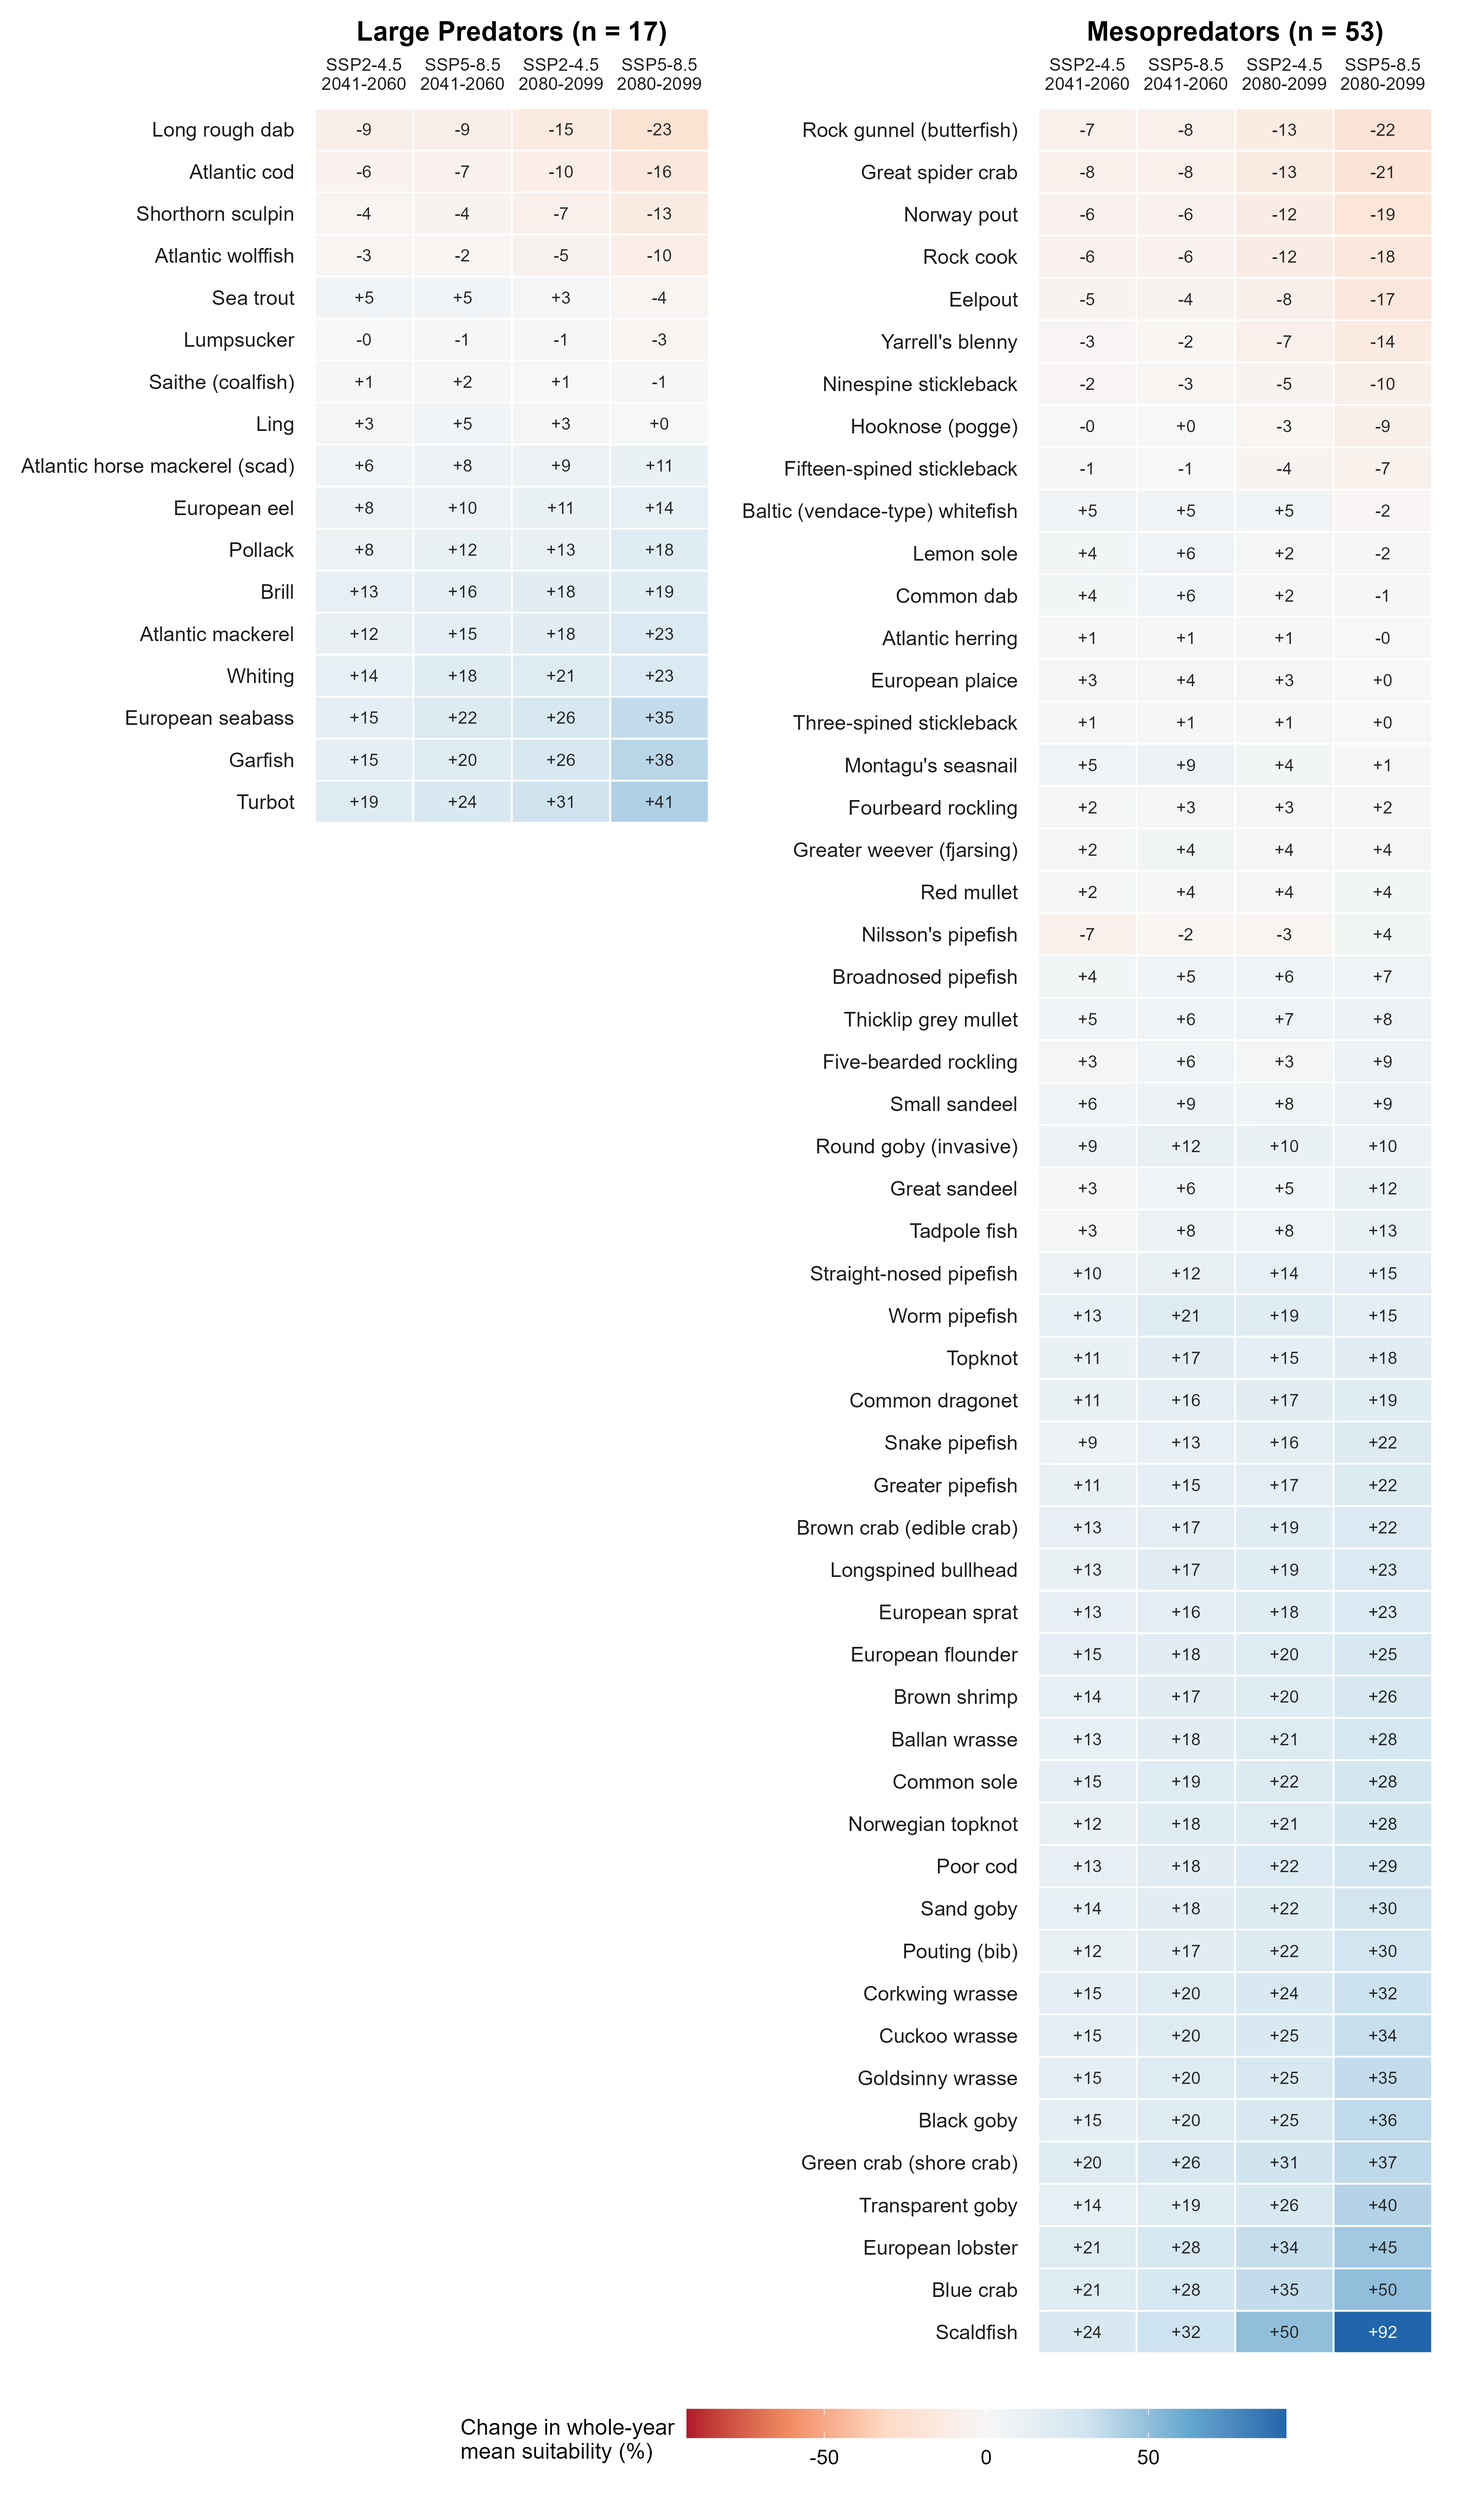
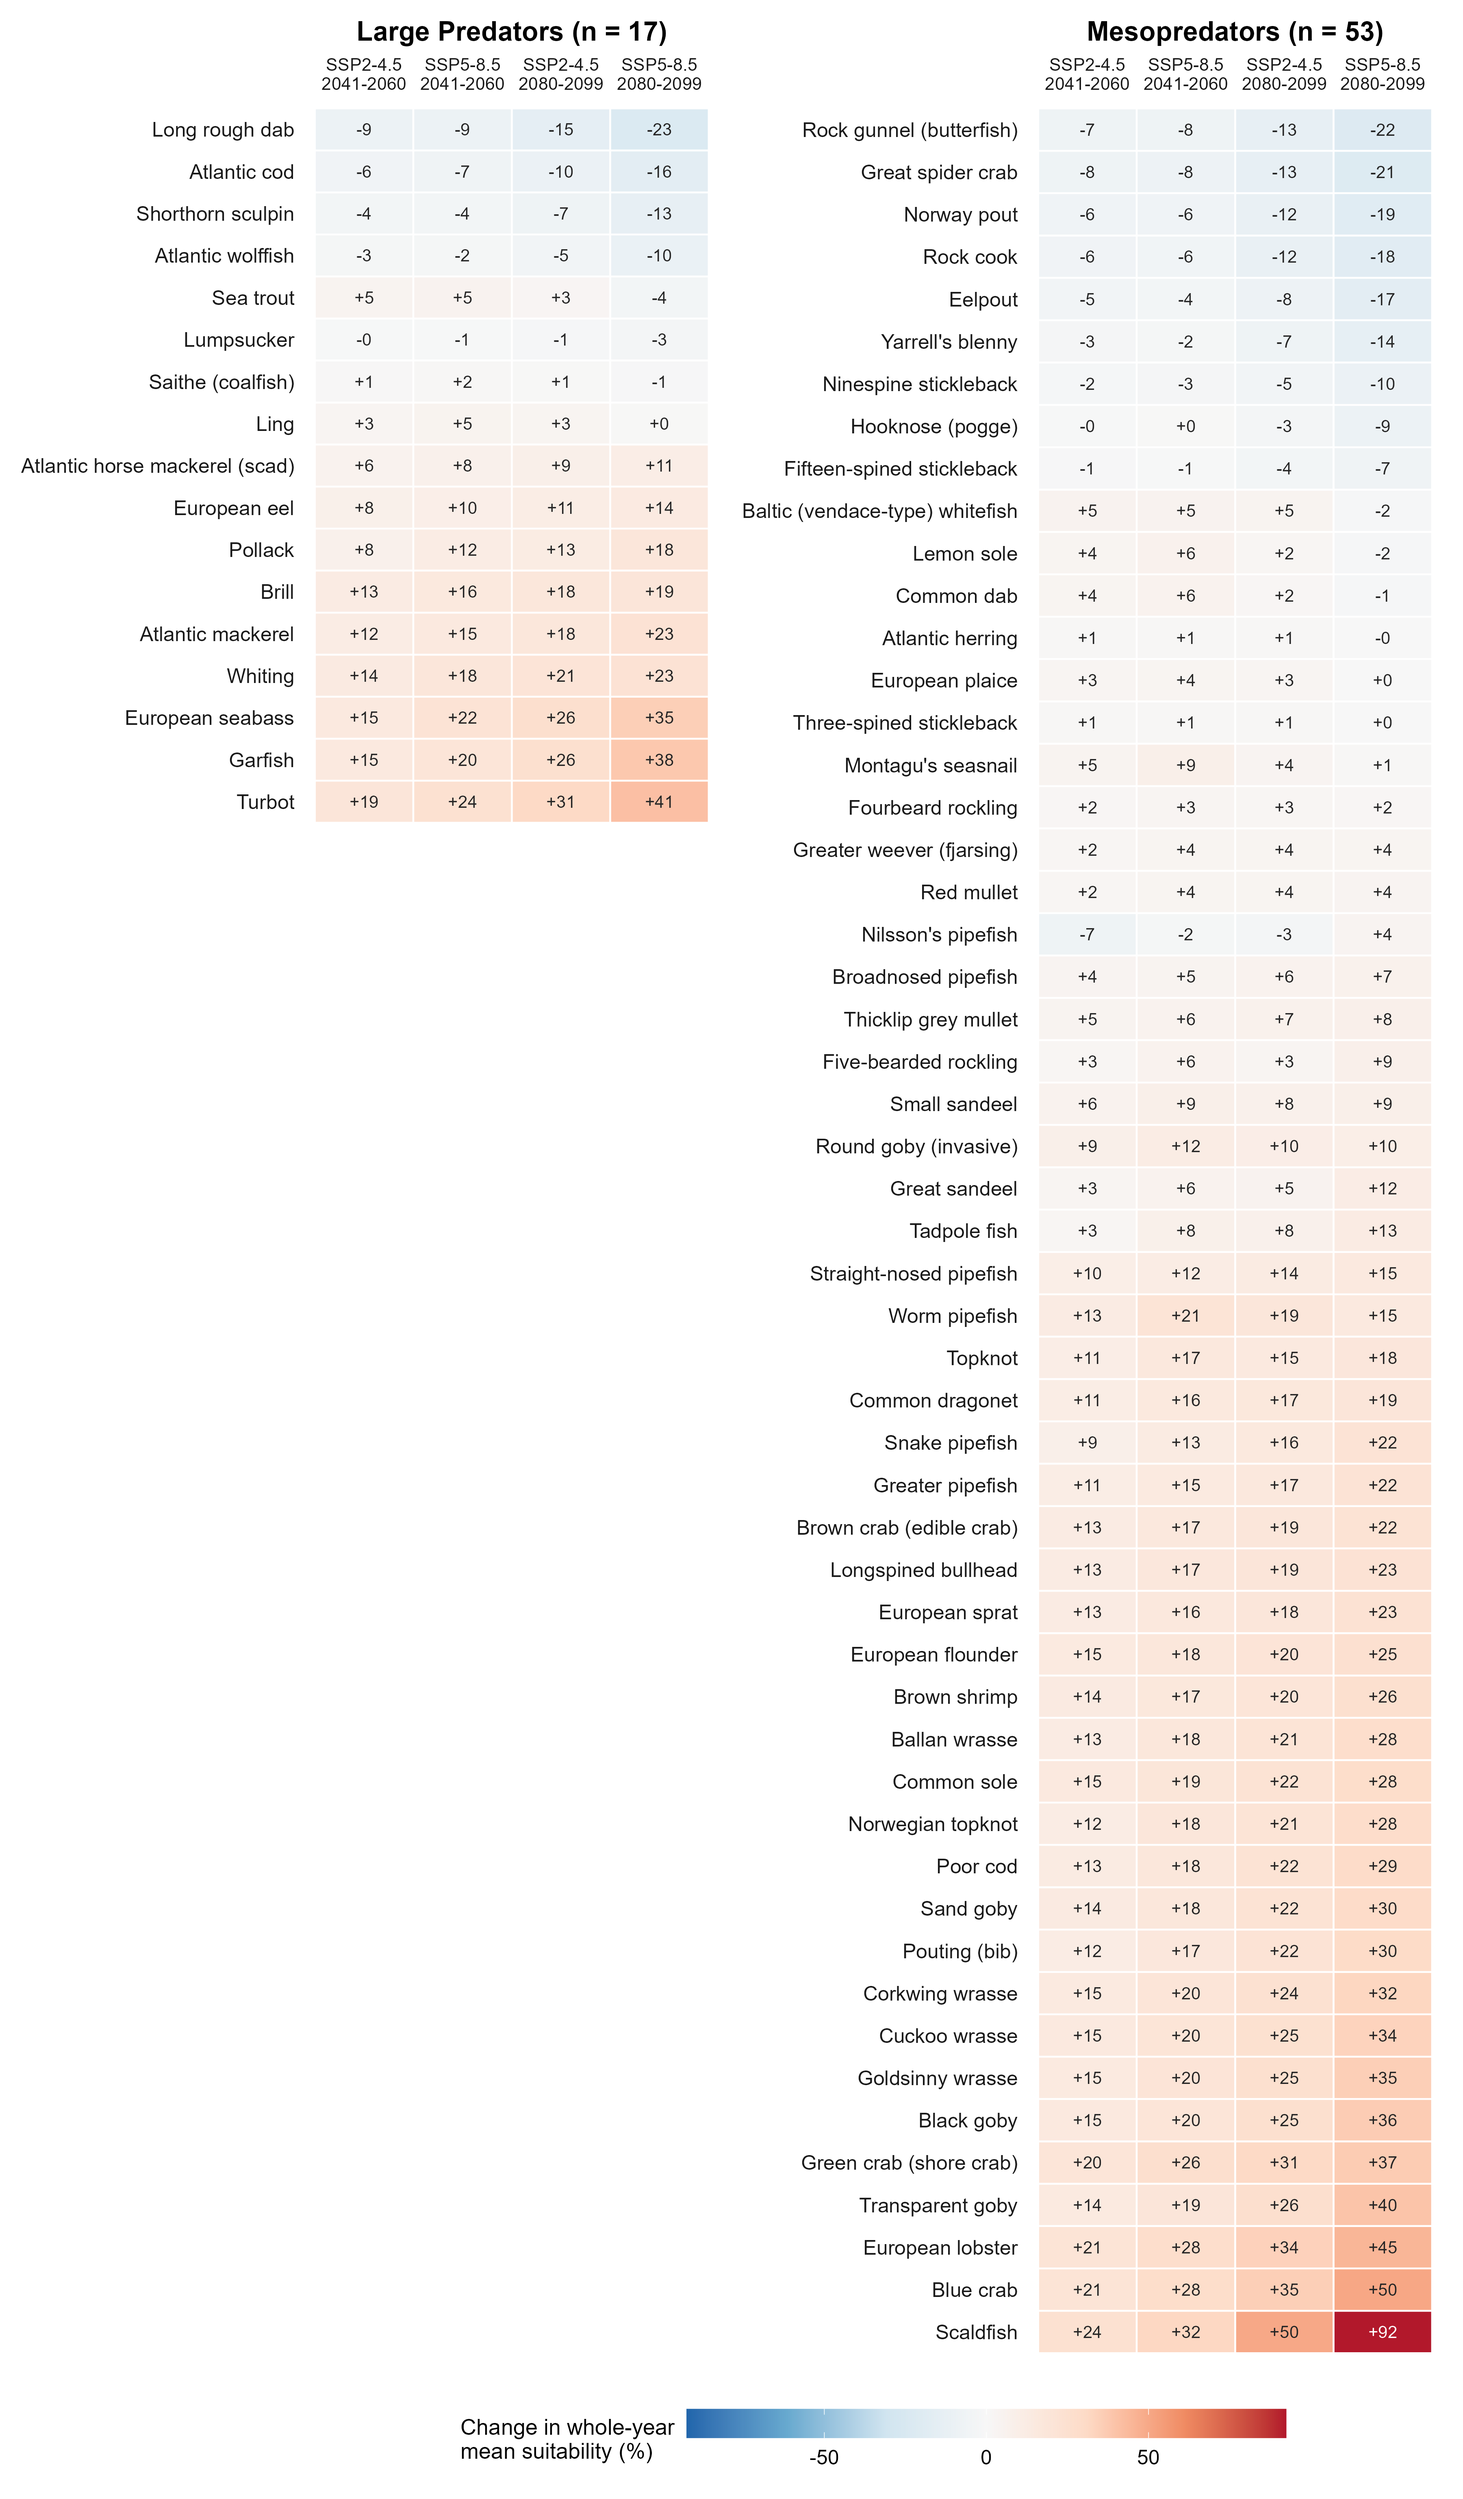
Role Trends: 4-panel winter-vs-summer scatter by catch; heatmap gains red, losses blue

diff --git a/index.html b/index.html
@@ -64,15 +64,16 @@
       labels = change by 2080-2099.</p>
       <img class="result-img trends-img" src="assets/affinity/representative_species_panel.png?v=3" alt="Representative species per trophic role, boreal vs non-boreal">
 
-      <p class="caption"><strong>3. Every species: winter vs summer.</strong> Change in winter (y) versus summer (x) suitability, observed
-      1994-2022 to 2080-2099. Symbol size = individuals caught in the Swedish coastal survey 2000-2024. Almost all species sit in the
-      upper left: they gain in winter but lose in summer.</p>
-      <img class="result-img trends-img" src="assets/summary/winter_vs_summer_change_SSP585_by_catch.png?v=7" alt="Winter vs summer change per species, SSP5-8.5">
-      <img class="result-img trends-img" src="assets/summary/winter_vs_summer_change_SSP245_by_catch.png?v=7" alt="Winter vs summer change per species, SSP2-4.5">
+      <p class="caption"><strong>3. Every species: winter vs summer.</strong> Change in winter (y) versus summer (x) mean suitability
+      from 1994-2022, for mid-century (2041-2060, top) and end of century (2080-2099, bottom) under both scenarios. Dot size = catch in the
+      Swedish coastal survey (2000-2024) relative to the most-caught species of the same trophic group; the most-caught species are named.
+      Most species sit in the upper left: they gain in winter but lose in summer. Below the dotted line the summer loss is larger
+      than the winter gain.</p>
+      <img class="result-img trends-img" src="assets/summary/winter_vs_summer_by_catch_4panel.png?v=1" alt="Winter vs summer change per species, both scenarios, 2041-2060 and 2080-2099">
 
       <p class="caption"><strong>4. Every species: whole-year change.</strong> % change in whole-year mean suitability from 1994-2022,
       per trophic role, for mid-century (2041-2060) and end of century (2080-2099).</p>
-      <img class="result-img heatmap-img" src="assets/summary/species_pctchange_heatmap.png?v=7" alt="Whole-year % change per species">
+      <img class="result-img heatmap-img" src="assets/summary/species_pctchange_heatmap.png?v=8" alt="Whole-year % change per species">
     </section>
 
     <section id="tab-affinity" class="tab-panel">
